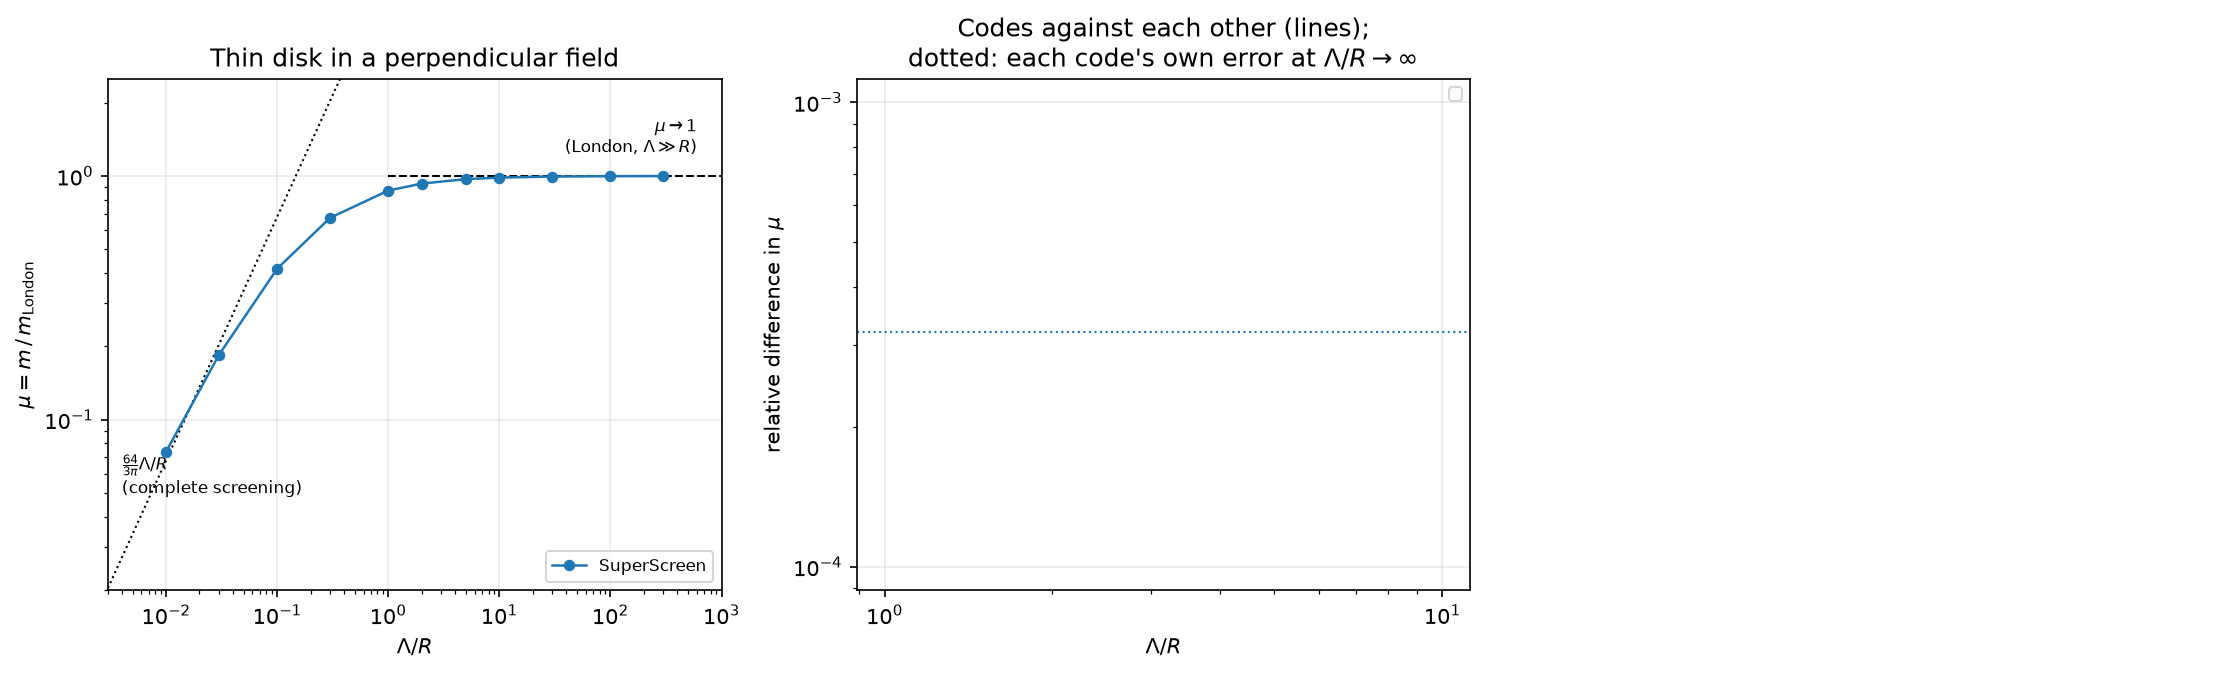
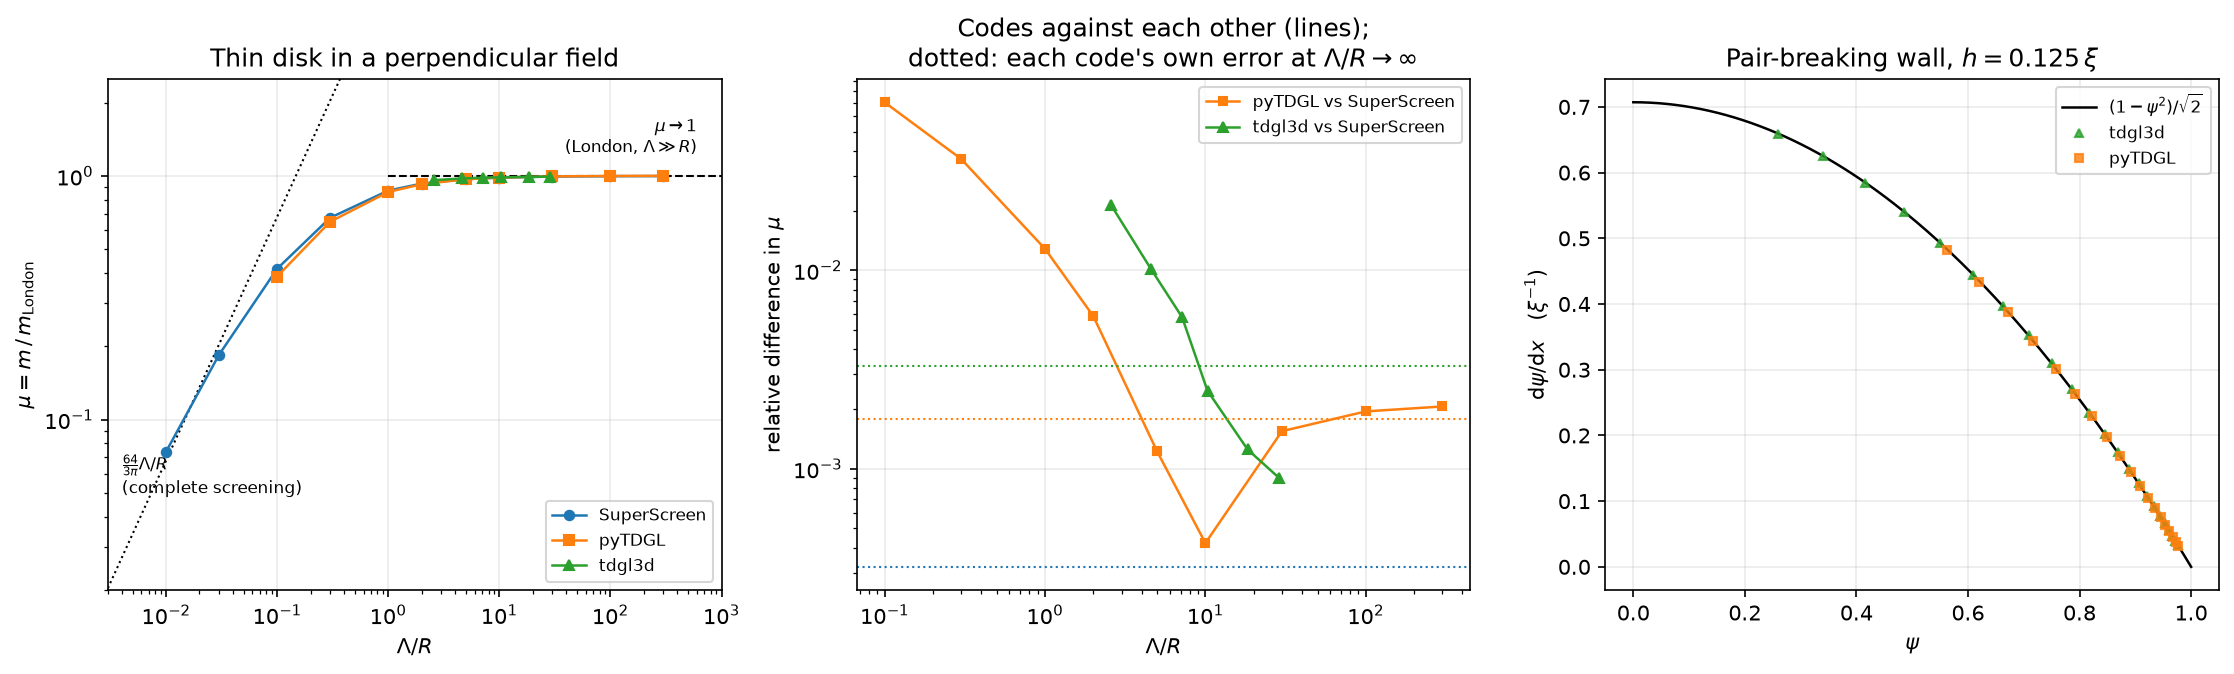
docs: the cross-tool error tables, with the pyTDGL and tdgl3d sweeps in
Fills in what the three sweeps measured. Against the exact London limit,
once the physical O(R/Λ) screening term is fitted out: 3.2e-4 for
SuperScreen, 1.8e-3 for pyTDGL, 3.3e-3 for tdgl3d, and the same ordering
with a wider spread when the current profile is compared rather than its
integral.

Against each other, which is the part no closed form covers: pyTDGL and
SuperScreen — two implementations of the same equation — agree to 2e-3
across the weakly screening half of the sweep and then come apart, to
1.3% at Λ/R = 1 and 7% at Λ/R = 0.1, where the Pearl length is down to
two mesh elements in both. tdgl3d converges onto the thin-film curve
from the weak end, 9e-4 away at Λ/R = 29 and 2.1% at 2.6, which is what
a thin-film approximation does as d/λ climbs back towards 1.

Also records what it costs tdgl3d to be on that axis: its vacuum is
pair-breaking, so a 4 ξ film measures ∫|ψ|²dz = 2.75 ξ and a 6 ξ disk
measures 5.09 ξ, and the Pearl length comes out 46% above λ²/d. Taking
the nominal value instead would have misplaced every tdgl3d point by
more than any difference the benchmark resolves.

Claude-Session: https://claude.ai/code/session_01AhQcTC83Pz8PbA1prGGCno

diff --git a/docs/notes/CROSS_TOOL_BENCHMARKS.md b/docs/notes/CROSS_TOOL_BENCHMARKS.md
@@ -34,6 +34,8 @@ cost. Both facts are measured below rather than asserted.
 
 ## Benchmark 1 — a thin disk in a perpendicular field
 
+[![Cross-tool benchmarks](../figures/cross_tool_benchmark.png)](../figures/cross_tool_benchmark.png)
+
 Magnetostatics, which all three codes do, on the one geometry whose
 weak-screening solution is exact rather than approximate. In the London
 limit the thin-film equation is
@@ -74,6 +76,96 @@ the 0.5% as solver error would be wrong by a factor of fifteen.
 The benchmark fits a straight line in `R/Λ` through the weakly screening
 points and quotes the intercept, which the closed form *does* fix at 1.
 What is left is the code's own error.
+
+### What each code is worth against the exact limit
+
+Fitting the `O(R/Λ)` screening term out of the points with `Λ/R ≥ 5` and
+reading the intercept:
+
+| tool | μ extrapolated to Λ/R → ∞ | error | rms of `K_φ/K_London − 1` at the weakest screening |
+|---|---|---|---|
+| SuperScreen | 0.99968 | 3.2e-4 | 2.9e-3 |
+| pyTDGL | 1.00178 | 1.8e-3 | 1.8e-2 |
+| `tdgl3d` | 0.99670 | 3.3e-3 | 6.9e-2 |
+
+The last column is the same statement made about the current profile
+rather than its integral, so a moment that comes out right by
+cancellation does not pass it. The ordering is the same and the spread
+is wider, which is what one expects: SuperScreen solves the London
+equation directly on a mesh that resolves the disk exactly; pyTDGL
+solves it as the `|ψ| ≈ 1` limit of a time-dependent problem on the same
+kind of mesh; `tdgl3d` solves a different equation — full 3-D Maxwell
+around a film of real thickness — on a Cartesian grid whose disk is a
+staircase six cells in radius.
+
+### What each code is worth against the others
+
+| Λ/R | μ (SuperScreen) | μ (pyTDGL) | relative difference |
+|---|---|---|---|
+| 300 | 0.99927 | 1.00133 | 2.1e-3 |
+| 100 | 0.99828 | 1.00022 | 1.9e-3 |
+| 30 | 0.99482 | 0.99636 | 1.6e-3 |
+| 10 | 0.98510 | 0.98551 | 4.2e-4 |
+| 5 | 0.97088 | 0.96969 | 1.2e-3 |
+| 2 | 0.93072 | 0.92525 | 5.9e-3 |
+| 1 | 0.87109 | 0.85991 | 1.3e-2 |
+| 0.3 | 0.67377 | 0.64923 | 3.6e-2 |
+| 0.1 | 0.41619 | 0.38694 | 7.0e-2 |
+
+Two independent implementations of the *same* equation, and they agree
+to 2e-3 across the whole weakly screening half of the sweep — then come
+apart, by 1.3% at `Λ/R = 1` and 7% at `Λ/R = 0.1`. Nothing in that
+second half can be checked against a closed form, and the divergence has
+a plain cause: as Λ shrinks, the sheet current varies over Λ, and at
+`Λ/R = 0.1` the Pearl length is 0.5 µm against a mesh edge of 0.25 µm.
+Both codes are resolving a length with two elements, in different ways.
+A benchmark that stopped at the closed forms would have reported both
+codes as excellent and said nothing about this.
+
+| Λ_eff/R_eff | μ (`tdgl3d`) | μ (SuperScreen, interpolated) | relative difference |
+|---|---|---|---|
+| 28.6 | 0.99351 | 0.99441 | 9.0e-4 |
+| 18.3 | 0.99170 | 0.99046 | 1.3e-3 |
+| 10.3 | 0.98780 | 0.98536 | 2.5e-3 |
+| 7.16 | 0.98391 | 0.97823 | 5.8e-3 |
+| 4.58 | 0.97685 | 0.96704 | 1.0e-2 |
+| 2.58 | 0.96195 | 0.94182 | 2.1e-2 |
+
+The 3-D code converges onto the thin-film curve from the weak end and
+leaves it as screening strengthens, which is what a thin-film
+approximation does when the film stops being thin: the sweep runs κ from
+6 to 20 at a fixed 4 ξ thickness, so `d/λ` falls from 0.67 to 0.20 as
+`Λ/R` rises, and the two codes are describing the same object only at
+the top of that range.
+
+### What it costs `tdgl3d` to be on this axis at all
+
+`Λ/R` is an input for the two thin-film codes and an outcome for this
+one, and the run reports what it measures rather than what was asked
+for:
+
+| quantity | asked for | measured |
+|---|---|---|
+| disk radius | 6 ξ | 5.09 ξ |
+| sheet superfluid density `∫\|ψ\|²dz` | 4 ξ | 2.75 ξ |
+| Pearl length at κ = 8 | `κ²/d` = 16 ξ | 23.3 ξ |
+| peak `\|ψ\|` in the film | 1 | 0.938 |
+
+All four are the same fact: `tdgl3d` treats a non-superconducting region
+as pair-breaking, so the vacuum above, below and around the film
+suppresses ψ through its whole 4 ξ thickness and eats the outer ξ of its
+radius. The film is a *weaker* screener than `λ²/d` implies, by 46% in
+Λ. Feeding the nominal `λ²/d` into a thin-film code and comparing would
+have put every `tdgl3d` point in the wrong place on the axis by that
+much — larger than any of the differences the benchmark is trying to
+resolve. This is why `μ` is normalised by a London reference built from
+the measured `∫|ψ|²r²dV` rather than from the geometry.
+
+The complete-screening end of the axis is not reached and is not
+attempted. Getting there needs `κ² ≪ R·n_s d` at a thickness the vacuum
+has not pair-broken, inside a box whose walls are far compared with R;
+the three constraints pull against each other, and the two thin-film
+codes cover that end at a thousandth of the cost.
 
 ## Benchmark 2 — a pair-breaking wall
 

diff --git a/packages/tdgl3d/benchmarks/REPORT.md b/packages/tdgl3d/benchmarks/REPORT.md
@@ -7,10 +7,12 @@ Generated by `python3 -m benchmarks.run report`.
 | tool | points fitted (Λ/R ≥ 5) | μ extrapolated to Λ/R → ∞ | error in μ | rms of K_φ/K_London - 1 at the weakest screening |
 |---|---|---|---|---|
 | superscreen | 5 | 0.99968 | 0.00032 | 0.00291 |
+| pytdgl | 5 | 1.00178 | 0.00178 | 0.0183 |
+| tdgl3d | 4 | 0.9967 | 0.0033 | 0.0692 |
 
 ## Thin disk: every point, against both closed forms
 
-| tool | Λ/R | μ = m/m_London | error vs London | m/m_ideal | error vs ideal |
+| tool | Λ/R | μ = m/m_London | \|μ-1\| | m/m_ideal | \|m/m_ideal - 1\| |
 |---|---|---|---|---|---|
 | superscreen | 300 | 0.99927 | 0.000732 | 0.00049051 | — |
 | superscreen | 100 | 0.99828 | 0.00172 | 0.0014701 | — |
@@ -23,14 +25,53 @@ Generated by `python3 -m benchmarks.run report`.
 | superscreen | 0.1 | 0.41619 | — | 0.6129 | — |
 | superscreen | 0.03 | 0.18467 | — | 0.9065 | 0.0935 |
 | superscreen | 0.01 | 0.073866 | — | 1.0878 | 0.0878 |
+| pytdgl | 300 | 1.0013 | 0.00133 | 0.00049131 | — |
+| pytdgl | 100 | 1.0002 | 0.000219 | 0.0014723 | — |
+| pytdgl | 30 | 0.99636 | 0.00364 | 0.0048888 | — |
+| pytdgl | 10 | 0.98551 | 0.0145 | 0.014507 | — |
+| pytdgl | 5 | 0.96969 | 0.0303 | 0.028549 | — |
+| pytdgl | 2 | 0.92525 | — | 0.068106 | — |
+| pytdgl | 1 | 0.85991 | — | 0.12661 | — |
+| pytdgl | 0.3 | 0.64923 | — | 0.31872 | — |
+| pytdgl | 0.1 | 0.38694 | — | 0.57001 | — |
+| tdgl3d | 28.63 | 0.99351 | 0.00649 | 0.0051106 | — |
+| tdgl3d | 18.32 | 0.9917 | 0.0083 | 0.0079707 | — |
+| tdgl3d | 10.31 | 0.9878 | 0.0122 | 0.014114 | — |
+| tdgl3d | 7.157 | 0.98391 | 0.0161 | 0.020245 | — |
+| tdgl3d | 4.581 | 0.97685 | — | 0.031405 | — |
+| tdgl3d | 2.577 | 0.96195 | — | 0.054981 | — |
 
 ## Thin disk: the codes against each other
 
 | Λ/R | μ (SuperScreen) | μ (pyTDGL) | relative difference |
 |---|---|---|---|
+| 300 | 0.99927 | 1.0013 | 0.00206 |
+| 100 | 0.99828 | 1.0002 | 0.00195 |
+| 30 | 0.99482 | 0.99636 | 0.00155 |
+| 10 | 0.9851 | 0.98551 | 0.000422 |
+| 5 | 0.97088 | 0.96969 | 0.00122 |
+| 2 | 0.93072 | 0.92525 | 0.00588 |
+| 1 | 0.87109 | 0.85991 | 0.0128 |
+| 0.3 | 0.67377 | 0.64923 | 0.0364 |
+| 0.1 | 0.41619 | 0.38694 | 0.0703 |
+
+| Λ_eff/R_eff | μ (tdgl3d) | μ (SuperScreen, interp.) | relative difference |
+|---|---|---|---|
+| 28.63 | 0.99351 | 0.99441 | 0.000903 |
+| 18.32 | 0.9917 | 0.99046 | 0.00125 |
+| 10.31 | 0.9878 | 0.98536 | 0.00247 |
+| 7.157 | 0.98391 | 0.97823 | 0.00581 |
+| 4.581 | 0.97685 | 0.96704 | 0.0101 |
+| 2.577 | 0.96195 | 0.94182 | 0.0214 |
 
 ## Pair-breaking wall: the order-parameter equation
 
 | tool | h (ξ) | rms of ψ' - (1-ψ²)/√2 | fitted healing length (exact √2 = 1.41421) |
 |---|---|---|---|
+| tdgl3d | 0.5 | 0.00532 | 1.40457 |
+| pytdgl | 0.5 | 0.00488 | 1.38992 |
+| tdgl3d | 0.25 | 0.00141 | 1.41286 |
+| pytdgl | 0.25 | 0.00302 | 1.39573 |
+| tdgl3d | 0.125 | 0.000366 | 1.41394 |
+| pytdgl | 0.125 | 0.000608 | 1.41501 |
 
